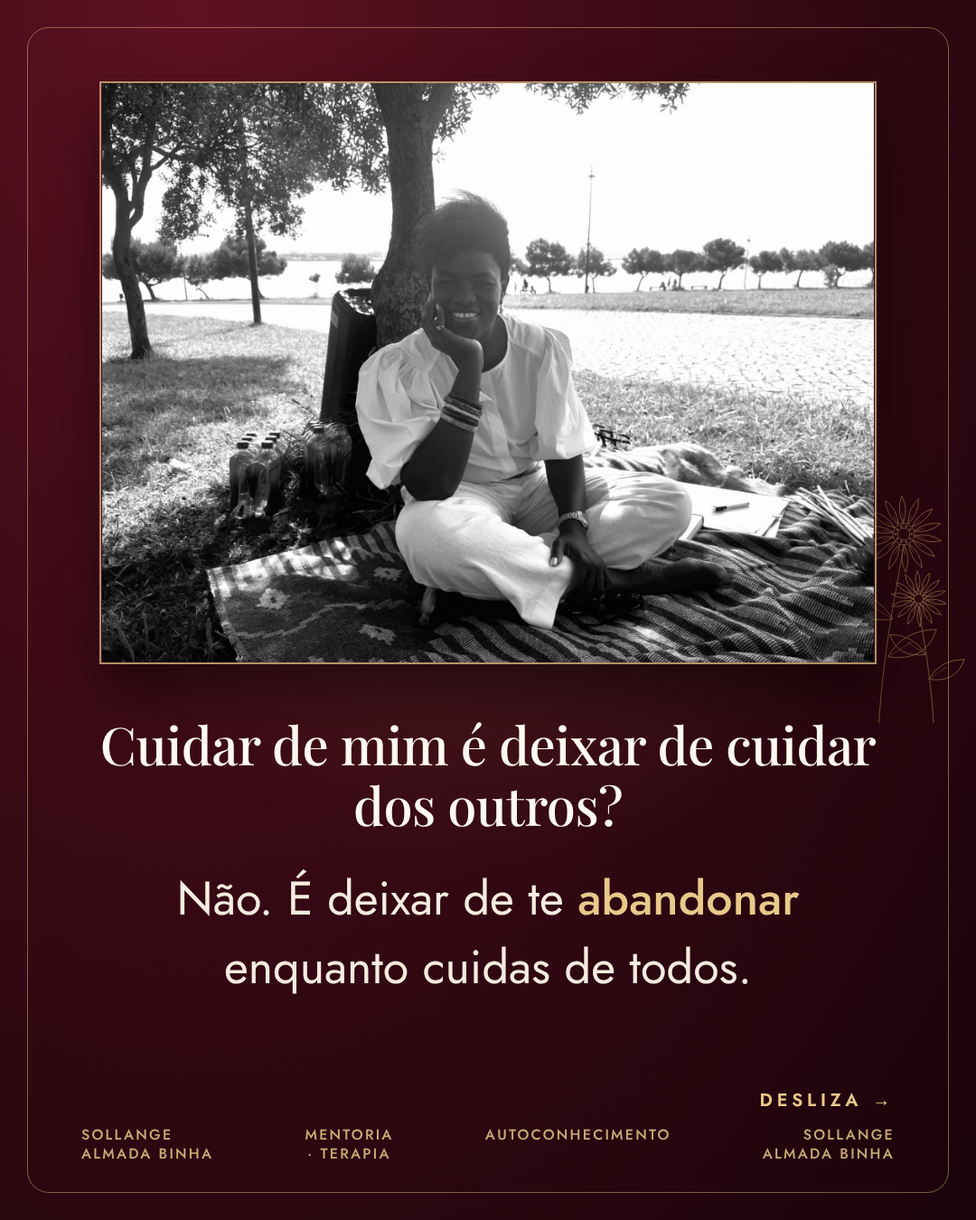
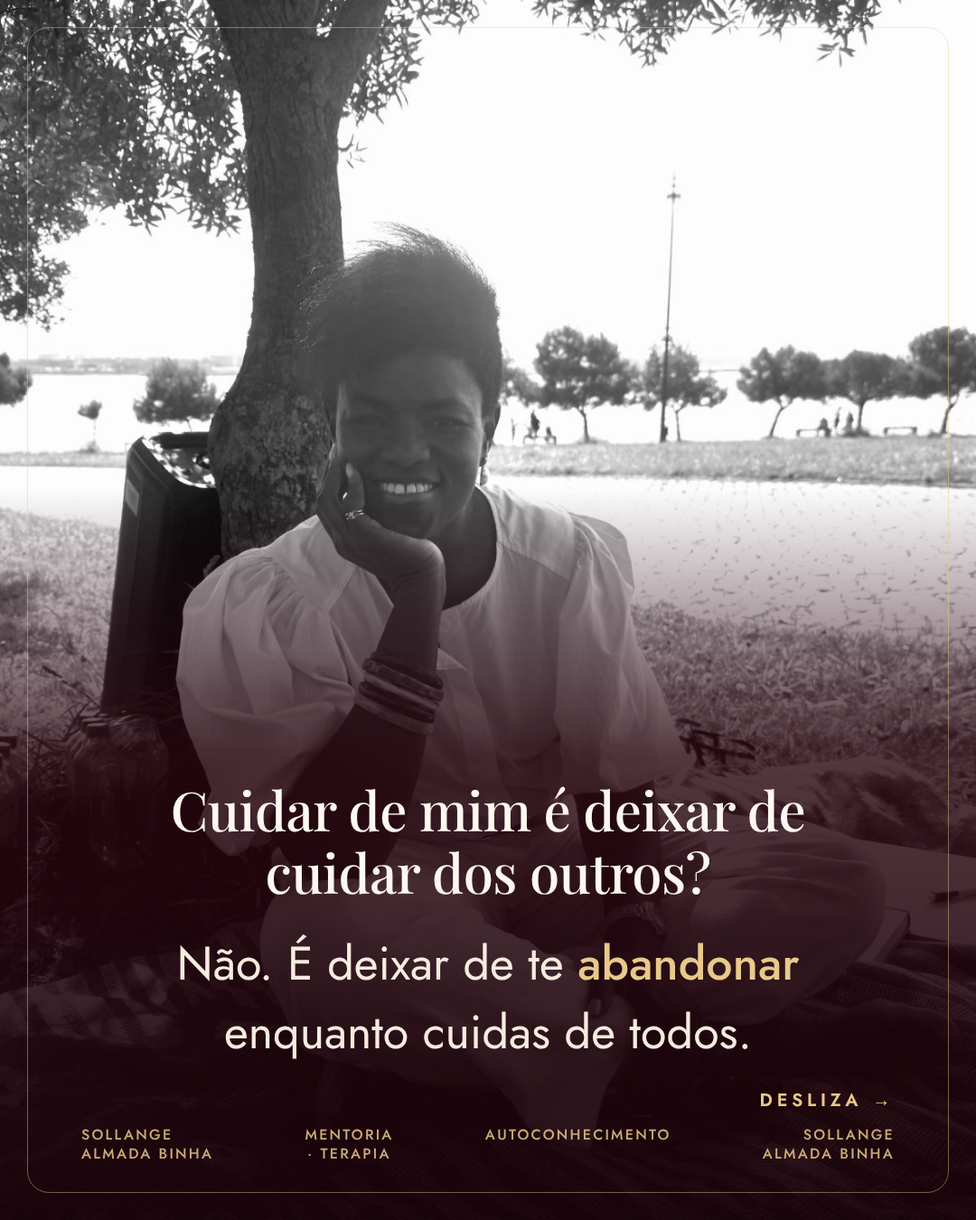
Egoismo carousel: full-bleed photos
Claude-Session: https://claude.ai/code/session_01LHQJ2mQGDsvNSWxv53LoAn

diff --git a/carrossel/carrossel-egoismo-vinho.html b/carrossel/carrossel-egoismo-vinho.html
@@ -7,6 +7,8 @@ body{background:#111;padding:40px;display:flex;flex-direction:column;gap:40px;al
 .s::after{content:"";position:absolute;inset:30px;border:1.5px solid rgba(233,201,138,.45);border-radius:24px;pointer-events:none;z-index:6}
 .flor{position:absolute;z-index:1;opacity:.5}
 .z{position:relative;z-index:2}
+.bg{position:absolute;inset:0;width:100%;height:100%;object-fit:cover;z-index:0}
+.veu{position:absolute;inset:0;z-index:1}
 .foto{position:absolute;z-index:2;object-fit:contain;border:2px solid rgba(233,201,138,.7);box-shadow:0 30px 60px rgba(0,0,0,.45)}
 h1,h2{font-family:"Playfair Display",Georgia,serif;font-weight:500;line-height:1.05;letter-spacing:-.01em;color:#FFF8F0}
 h1 em,h2 em{font-style:italic;color:#E9C98A}
@@ -20,13 +22,11 @@ h1 em,h2 em{font-style:italic;color:#E9C98A}
 .script{font:400 96px/1 "Pinyon Script",cursive;color:#E9C98A}
 </style></head><body>
 <section class="s" id="p1">
-<svg class="flor" style="left:-30px;top:250px;width:250px;height:375px" viewBox="0 0 400 600" fill="none" stroke="#D4AF6A" stroke-width="1.6" stroke-linejoin="round"><path d="M120 600 C132.0 480.0 162.0 390.0 180 318.9"/><path d="M141 495 Q204 504 222 450 Q168 450 141 495Z"/><path d="M141 495 L182 468" stroke-width="1"/><path d="M153 435 Q90 444 72 390 Q126 390 153 435Z"/><path d="M153 435 L112 408" stroke-width="1"/><path d="M197.4 303.1 Q218.0 316.9 242.0 310.9 Q221.5 297.1 197.4 303.1Z"/><path d="M197.4 303.1 L214.1 306.0" stroke-width="1"/><path d="M194.3 310.3 Q206.9 331.7 231.2 336.8 Q218.6 315.4 194.3 310.3Z"/><path d="M194.3 310.3 L208.1 320.2" stroke-width="1"/><path d="M188.4 315.5 Q190.4 340.2 210.1 355.3 Q208.1 330.6 188.4 315.5Z"/><path d="M188.4 315.5 L196.6 330.4" stroke-width="1"/><path d="M180.9 317.6 Q171.9 340.8 183.1 362.9 Q192.1 339.8 180.9 317.6Z"/><path d="M180.9 317.6 L181.7 334.6" stroke-width="1"/><path d="M173.1 316.3 Q155.0 333.2 155.5 358.1 Q173.6 341.1 173.1 316.3Z"/><path d="M173.1 316.3 L166.5 331.9" stroke-width="1"/><path d="M166.8 311.7 Q143.1 319.1 132.8 341.7 Q156.4 334.2 166.8 311.7Z"/><path d="M166.8 311.7 L154.0 322.9" stroke-width="1"/><path d="M163.0 304.8 Q138.5 301.2 119.4 317.1 Q143.9 320.6 163.0 304.8Z"/><path d="M163.0 304.8 L146.6 309.4" stroke-width="1"/><path d="M162.6 296.9 Q142.0 283.1 118.0 289.1 Q138.5 302.9 162.6 296.9Z"/><path d="M162.6 296.9 L145.9 294.0" stroke-width="1"/><path d="M165.7 289.7 Q153.1 268.3 128.8 263.2 Q141.4 284.6 165.7 289.7Z"/><path d="M165.7 289.7 L151.9 279.8" stroke-width="1"/><path d="M171.6 284.5 Q169.6 259.8 149.9 244.7 Q151.9 269.4 171.6 284.5Z"/><path d="M171.6 284.5 L163.4 269.6" stroke-width="1"/><path d="M179.1 282.4 Q188.1 259.2 176.9 237.1 Q167.9 260.2 179.1 282.4Z"/><path d="M179.1 282.4 L178.3 265.4" stroke-width="1"/><path d="M186.9 283.7 Q205.0 266.8 204.5 241.9 Q186.4 258.9 186.9 283.7Z"/><path d="M186.9 283.7 L193.5 268.1" stroke-width="1"/><path d="M193.2 288.3 Q216.9 280.9 227.2 258.3 Q203.6 265.8 193.2 288.3Z"/><path d="M193.2 288.3 L206.0 277.1" stroke-width="1"/><path d="M197.0 295.2 Q221.5 298.8 240.6 282.9 Q216.1 279.4 197.0 295.2Z"/><path d="M197.0 295.2 L213.4 290.6" stroke-width="1"/><circle cx="180" cy="300" r="17.6"/><circle cx="180" cy="300" r="10.1"/><circle cx="193.2" cy="300.0" r="1.6" fill="#D4AF6A"/><circle cx="190.7" cy="307.8" r="1.6" fill="#D4AF6A"/><circle cx="184.1" cy="312.6" r="1.6" fill="#D4AF6A"/><circle cx="175.9" cy="312.6" r="1.6" fill="#D4AF6A"/><circle cx="169.3" cy="307.8" r="1.6" fill="#D4AF6A"/><circle cx="166.8" cy="300.0" r="1.6" fill="#D4AF6A"/><circle cx="169.3" cy="292.2" r="1.6" fill="#D4AF6A"/><circle cx="175.9" cy="287.4" r="1.6" fill="#D4AF6A"/><circle cx="184.1" cy="287.4" r="1.6" fill="#D4AF6A"/><circle cx="190.7" cy="292.2" r="1.6" fill="#D4AF6A"/><path d="M250 600 C252.0 428.0 257.0 299.0 260 191.0"/><path d="M254 450 Q324 460 344 400 Q284 400 254 450Z"/><path d="M254 450 L298 420" stroke-width="1"/><path d="M256 364 Q186 374 166 314 Q226 314 256 364Z"/><path d="M256 364 L210 334" stroke-width="1"/><path d="M279.3 173.4 Q302.2 188.8 328.9 182.2 Q306.1 166.7 279.3 173.4Z"/><path d="M279.3 173.4 L297.9 176.7" stroke-width="1"/><path d="M275.9 181.4 Q289.8 205.2 316.8 210.9 Q302.9 187.1 275.9 181.4Z"/><path d="M275.9 181.4 L291.3 192.5" stroke-width="1"/><path d="M269.4 187.2 Q271.6 214.7 293.5 231.5 Q291.3 204.0 269.4 187.2Z"/><path d="M269.4 187.2 L278.4 203.8" stroke-width="1"/><path d="M261.0 189.6 Q251.0 215.3 263.5 239.9 Q273.4 214.2 261.0 189.6Z"/><path d="M261.0 189.6 L261.9 208.5" stroke-width="1"/><path d="M252.4 188.1 Q232.3 206.9 232.8 234.5 Q252.9 215.6 252.4 188.1Z"/><path d="M252.4 188.1 L245.0 205.5" stroke-width="1"/><path d="M245.3 183.0 Q219.0 191.2 207.5 216.3 Q233.8 208.0 245.3 183.0Z"/><path d="M245.3 183.0 L231.1 195.5" stroke-width="1"/><path d="M241.1 175.3 Q213.8 171.4 192.6 189.0 Q219.9 192.9 241.1 175.3Z"/><path d="M241.1 175.3 L222.9 180.4" stroke-width="1"/><path d="M240.7 166.6 Q217.8 151.2 191.1 157.8 Q213.9 173.3 240.7 166.6Z"/><path d="M240.7 166.6 L222.1 163.3" stroke-width="1"/><path d="M244.1 158.6 Q230.2 134.8 203.2 129.1 Q217.1 152.9 244.1 158.6Z"/><path d="M244.1 158.6 L228.7 147.5" stroke-width="1"/><path d="M250.6 152.8 Q248.4 125.3 226.5 108.5 Q228.7 136.0 250.6 152.8Z"/><path d="M250.6 152.8 L241.6 136.2" stroke-width="1"/><path d="M259.0 150.4 Q269.0 124.7 256.5 100.1 Q246.6 125.8 259.0 150.4Z"/><path d="M259.0 150.4 L258.1 131.5" stroke-width="1"/><path d="M267.6 151.9 Q287.7 133.1 287.2 105.5 Q267.1 124.4 267.6 151.9Z"/><path d="M267.6 151.9 L275.0 134.5" stroke-width="1"/><path d="M274.7 157.0 Q301.0 148.8 312.5 123.7 Q286.2 132.0 274.7 157.0Z"/><path d="M274.7 157.0 L288.9 144.5" stroke-width="1"/><path d="M278.9 164.7 Q306.2 168.6 327.4 151.0 Q300.1 147.1 278.9 164.7Z"/><path d="M278.9 164.7 L297.1 159.6" stroke-width="1"/><circle cx="260" cy="170" r="19.6"/><circle cx="260" cy="170" r="11.2"/><circle cx="274.7" cy="170.0" r="1.6" fill="#D4AF6A"/><circle cx="271.9" cy="178.6" r="1.6" fill="#D4AF6A"/><circle cx="264.5" cy="184.0" r="1.6" fill="#D4AF6A"/><circle cx="255.5" cy="184.0" r="1.6" fill="#D4AF6A"/><circle cx="248.1" cy="178.6" r="1.6" fill="#D4AF6A"/><circle cx="245.3" cy="170.0" r="1.6" fill="#D4AF6A"/><circle cx="248.1" cy="161.4" r="1.6" fill="#D4AF6A"/><circle cx="255.5" cy="156.0" r="1.6" fill="#D4AF6A"/><circle cx="264.5" cy="156.0" r="1.6" fill="#D4AF6A"/><circle cx="271.9" cy="161.4" r="1.6" fill="#D4AF6A"/><path d="M330 600 C320.0 512.0 295.0 446.0 280 394.7"/><path d="M312 523 Q362 530 376 488 Q334 488 312 523Z"/><path d="M312 523 L344 502" stroke-width="1"/><path d="M302 479 Q254 486 240 444 Q282 444 302 479Z"/><path d="M302 479 L271 458" stroke-width="1"/><path d="M293.5 382.4 Q309.5 393.2 328.3 388.5 Q312.2 377.7 293.5 382.4Z"/><path d="M293.5 382.4 L306.5 384.7" stroke-width="1"/><path d="M291.1 388.0 Q300.9 404.7 319.8 408.6 Q310.0 391.9 291.1 388.0Z"/><path d="M291.1 388.0 L301.9 395.7" stroke-width="1"/><path d="M286.6 392.0 Q288.1 411.3 303.4 423.0 Q301.9 403.8 286.6 392.0Z"/><path d="M286.6 392.0 L292.9 403.7" stroke-width="1"/><path d="M280.7 393.7 Q273.7 411.7 282.4 428.9 Q289.4 410.9 280.7 393.7Z"/><path d="M280.7 393.7 L281.3 406.9" stroke-width="1"/><path d="M274.7 392.6 Q260.6 405.9 261.0 425.2 Q275.0 411.9 274.7 392.6Z"/><path d="M274.7 392.6 L269.5 404.8" stroke-width="1"/><path d="M269.7 389.1 Q251.3 394.9 243.3 412.4 Q261.7 406.6 269.7 389.1Z"/><path d="M269.7 389.1 L259.8 397.8" stroke-width="1"/><path d="M266.8 383.7 Q247.7 380.9 232.8 393.3 Q251.9 396.0 266.8 383.7Z"/><path d="M266.8 383.7 L254.1 387.3" stroke-width="1"/><path d="M266.5 377.6 Q250.5 366.8 231.7 371.5 Q247.8 382.3 266.5 377.6Z"/><path d="M266.5 377.6 L253.5 375.3" stroke-width="1"/><path d="M268.9 372.0 Q259.1 355.3 240.2 351.4 Q250.0 368.1 268.9 372.0Z"/><path d="M268.9 372.0 L258.1 364.3" stroke-width="1"/><path d="M273.4 368.0 Q271.9 348.7 256.6 337.0 Q258.1 356.2 273.4 368.0Z"/><path d="M273.4 368.0 L267.1 356.3" stroke-width="1"/><path d="M279.3 366.3 Q286.3 348.3 277.6 331.1 Q270.6 349.1 279.3 366.3Z"/><path d="M279.3 366.3 L278.7 353.1" stroke-width="1"/><path d="M285.3 367.4 Q299.4 354.1 299.0 334.8 Q285.0 348.1 285.3 367.4Z"/><path d="M285.3 367.4 L290.5 355.2" stroke-width="1"/><path d="M290.3 370.9 Q308.7 365.1 316.7 347.6 Q298.3 353.4 290.3 370.9Z"/><path d="M290.3 370.9 L300.2 362.2" stroke-width="1"/><path d="M293.2 376.3 Q312.3 379.1 327.2 366.7 Q308.1 364.0 293.2 376.3Z"/><path d="M293.2 376.3 L305.9 372.7" stroke-width="1"/><circle cx="280" cy="380" r="13.7"/><circle cx="280" cy="380" r="7.8"/><circle cx="290.3" cy="380.0" r="1.6" fill="#D4AF6A"/><circle cx="288.3" cy="386.0" r="1.6" fill="#D4AF6A"/><circle cx="283.2" cy="389.8" r="1.6" fill="#D4AF6A"/><circle cx="276.8" cy="389.8" r="1.6" fill="#D4AF6A"/><circle cx="271.7" cy="386.0" r="1.6" fill="#D4AF6A"/><circle cx="269.7" cy="380.0" r="1.6" fill="#D4AF6A"/><circle cx="271.7" cy="374.0" r="1.6" fill="#D4AF6A"/><circle cx="276.8" cy="370.2" r="1.6" fill="#D4AF6A"/><circle cx="283.2" cy="370.2" r="1.6" fill="#D4AF6A"/><circle cx="288.3" cy="374.0" r="1.6" fill="#D4AF6A"/></svg>
-<img class="foto" src="egoismo/inteira-flores.jpg" style="right:90px;top:90px;width:562px;height:780px">
-<div class="z" style="position:absolute;left:90px;top:150px;width:420px">
-<p class="script" style="font-size:76px">um convite</p>
-</div>
-<div class="z" style="position:absolute;left:90px;right:90px;top:930px">
-<h1 style="font-size:118px">É egoísmo <em>pensar em mim?</em></h1>
+<img class="bg" src="egoismo/inteira-flores.jpg" style="object-position:50% 20%">
+<div class="veu" style="background:linear-gradient(180deg,rgba(26,3,10,0) 55%,rgba(42,6,16,.78) 76%,rgba(26,3,10,.96) 100%)"></div>
+<div class="z" style="position:absolute;left:90px;right:90px;bottom:150px">
+<p class="script" style="font-size:72px">um convite</p>
+<h1 style="font-size:112px;margin-top:10px;text-shadow:0 4px 24px rgba(0,0,0,.4)">É egoísmo <em>pensar em mim?</em></h1>
 </div>
 <div class="rod"><span>Sollange<br>Almada Binha</span><span>Mentoria<br>· Terapia</span><span>Autoconhecimento</span><span>Sollange<br>Almada Binha</span></div></section><section class="s" id="p2">
 <svg class="flor" style="right:-40px;bottom:100px;width:260px;height:390px" viewBox="0 0 400 600" fill="none" stroke="#D4AF6A" stroke-width="1.6" stroke-linejoin="round"><path d="M200 600 C192.0 432.0 172.0 306.0 160 205.2"/><path d="M186 453 Q270 465 294 393 Q222 393 186 453Z"/><path d="M186 453 L240 419" stroke-width="1"/><path d="M178 369 Q94 381 70 309 Q142 309 178 369Z"/><path d="M178 369 L124 335" stroke-width="1"/><path d="M183.2 184.1 Q210.6 202.6 242.7 194.6 Q215.3 176.1 183.2 184.1Z"/><path d="M183.2 184.1 L205.5 188.0" stroke-width="1"/><path d="M179.1 193.7 Q195.8 222.3 228.2 229.0 Q211.5 200.5 179.1 193.7Z"/><path d="M179.1 193.7 L197.5 207.0" stroke-width="1"/><path d="M171.2 200.7 Q173.9 233.6 200.2 253.8 Q197.5 220.8 171.2 200.7Z"/><path d="M171.2 200.7 L182.1 220.6" stroke-width="1"/><path d="M161.2 203.5 Q149.3 234.4 164.2 263.9 Q176.1 233.0 161.2 203.5Z"/><path d="M161.2 203.5 L162.3 226.1" stroke-width="1"/><path d="M150.9 201.7 Q126.7 224.3 127.4 257.4 Q151.5 234.8 150.9 201.7Z"/><path d="M150.9 201.7 L142.1 222.6" stroke-width="1"/><path d="M142.4 195.6 Q110.8 205.5 97.0 235.6 Q128.6 225.6 142.4 195.6Z"/><path d="M142.4 195.6 L125.4 210.6" stroke-width="1"/><path d="M137.4 186.4 Q104.6 181.6 79.1 202.8 Q111.9 207.5 137.4 186.4Z"/><path d="M137.4 186.4 L115.5 192.5" stroke-width="1"/><path d="M136.8 175.9 Q109.4 157.4 77.3 165.4 Q104.7 183.9 136.8 175.9Z"/><path d="M136.8 175.9 L114.5 172.0" stroke-width="1"/><path d="M140.9 166.3 Q124.2 137.7 91.8 131.0 Q108.5 159.5 140.9 166.3Z"/><path d="M140.9 166.3 L122.5 153.0" stroke-width="1"/><path d="M148.8 159.3 Q146.1 126.4 119.8 106.2 Q122.5 139.2 148.8 159.3Z"/><path d="M148.8 159.3 L137.9 139.4" stroke-width="1"/><path d="M158.8 156.5 Q170.7 125.6 155.8 96.1 Q143.9 127.0 158.8 156.5Z"/><path d="M158.8 156.5 L157.7 133.9" stroke-width="1"/><path d="M169.1 158.3 Q193.3 135.7 192.6 102.6 Q168.5 125.2 169.1 158.3Z"/><path d="M169.1 158.3 L177.9 137.4" stroke-width="1"/><path d="M177.6 164.4 Q209.2 154.5 223.0 124.4 Q191.4 134.4 177.6 164.4Z"/><path d="M177.6 164.4 L194.6 149.4" stroke-width="1"/><path d="M182.6 173.6 Q215.4 178.4 240.9 157.2 Q208.1 152.5 182.6 173.6Z"/><path d="M182.6 173.6 L204.5 167.5" stroke-width="1"/><circle cx="160" cy="180" r="23.5"/><circle cx="160" cy="180" r="13.4"/><circle cx="177.6" cy="180.0" r="1.6" fill="#D4AF6A"/><circle cx="174.3" cy="190.4" r="1.6" fill="#D4AF6A"/><circle cx="165.5" cy="196.8" r="1.6" fill="#D4AF6A"/><circle cx="154.5" cy="196.8" r="1.6" fill="#D4AF6A"/><circle cx="145.7" cy="190.4" r="1.6" fill="#D4AF6A"/><circle cx="142.4" cy="180.0" r="1.6" fill="#D4AF6A"/><circle cx="145.7" cy="169.6" r="1.6" fill="#D4AF6A"/><circle cx="154.5" cy="163.2" r="1.6" fill="#D4AF6A"/><circle cx="165.5" cy="163.2" r="1.6" fill="#D4AF6A"/><circle cx="174.3" cy="169.6" r="1.6" fill="#D4AF6A"/></svg>
@@ -36,11 +36,11 @@ h1 em,h2 em{font-style:italic;color:#E9C98A}
 <p class="r" style="margin-top:28px">Cuidar dos outros foi o lugar onde te <b>sentiste amada.</b></p>
 </div>
 <p class="seta">Desliza →</p><div class="rod"><span>Sollange<br>Almada Binha</span><span>Mentoria<br>· Terapia</span><span>Autoconhecimento</span><span>Sollange<br>Almada Binha</span></div></section><section class="s" id="p3">
-<img class="foto" src="egoismo/inteira-manta.jpg" style="left:110px;top:90px;width:860px;height:645px">
-<svg class="flor" style="right:-30px;top:470px;width:220px;height:330px" viewBox="0 0 400 600" fill="none" stroke="#D4AF6A" stroke-width="1.6" stroke-linejoin="round"><path d="M150 600 C160.0 448.0 185.0 334.0 200 243.1"/><path d="M168 467 Q244 478 266 412 Q200 412 168 467Z"/><path d="M168 467 L217 436" stroke-width="1"/><path d="M178 391 Q100 402 78 336 Q144 336 178 391Z"/><path d="M178 391 L128 360" stroke-width="1"/><path d="M221.2 223.7 Q246.4 240.7 275.8 233.4 Q250.7 216.4 221.2 223.7Z"/><path d="M221.2 223.7 L241.7 227.4" stroke-width="1"/><path d="M217.5 232.6 Q232.8 258.8 262.5 264.9 Q247.2 238.8 217.5 232.6Z"/><path d="M217.5 232.6 L234.4 244.7" stroke-width="1"/><path d="M210.3 238.9 Q212.7 269.2 236.8 287.6 Q234.4 257.4 210.3 238.9Z"/><path d="M210.3 238.9 L220.3 257.2" stroke-width="1"/><path d="M201.1 241.5 Q190.2 269.8 203.8 296.9 Q214.8 268.6 201.1 241.5Z"/><path d="M201.1 241.5 L202.1 262.3" stroke-width="1"/><path d="M191.6 239.9 Q169.5 260.6 170.1 291.0 Q192.2 270.2 191.6 239.9Z"/><path d="M191.6 239.9 L183.5 259.0" stroke-width="1"/><path d="M183.8 234.3 Q154.9 243.4 142.3 270.9 Q171.2 261.8 183.8 234.3Z"/><path d="M183.8 234.3 L168.2 248.0" stroke-width="1"/><path d="M179.2 225.8 Q149.2 221.5 125.9 240.9 Q155.9 245.2 179.2 225.8Z"/><path d="M179.2 225.8 L159.2 231.5" stroke-width="1"/><path d="M178.8 216.3 Q153.6 199.3 124.2 206.6 Q149.3 223.6 178.8 216.3Z"/><path d="M178.8 216.3 L158.3 212.6" stroke-width="1"/><path d="M182.5 207.4 Q167.2 181.2 137.5 175.1 Q152.8 201.2 182.5 207.4Z"/><path d="M182.5 207.4 L165.6 195.3" stroke-width="1"/><path d="M189.7 201.1 Q187.3 170.8 163.2 152.4 Q165.6 182.6 189.7 201.1Z"/><path d="M189.7 201.1 L179.7 182.8" stroke-width="1"/><path d="M198.9 198.5 Q209.8 170.2 196.2 143.1 Q185.2 171.4 198.9 198.5Z"/><path d="M198.9 198.5 L197.9 177.7" stroke-width="1"/><path d="M208.4 200.1 Q230.5 179.4 229.9 149.0 Q207.8 169.8 208.4 200.1Z"/><path d="M208.4 200.1 L216.5 181.0" stroke-width="1"/><path d="M216.2 205.7 Q245.1 196.6 257.7 169.1 Q228.8 178.2 216.2 205.7Z"/><path d="M216.2 205.7 L231.8 192.0" stroke-width="1"/><path d="M220.8 214.2 Q250.8 218.5 274.1 199.1 Q244.1 194.8 220.8 214.2Z"/><path d="M220.8 214.2 L240.8 208.5" stroke-width="1"/><circle cx="200" cy="220" r="21.6"/><circle cx="200" cy="220" r="12.3"/><circle cx="216.2" cy="220.0" r="1.6" fill="#D4AF6A"/><circle cx="213.1" cy="229.5" r="1.6" fill="#D4AF6A"/><circle cx="205.0" cy="235.4" r="1.6" fill="#D4AF6A"/><circle cx="195.0" cy="235.4" r="1.6" fill="#D4AF6A"/><circle cx="186.9" cy="229.5" r="1.6" fill="#D4AF6A"/><circle cx="183.8" cy="220.0" r="1.6" fill="#D4AF6A"/><circle cx="186.9" cy="210.5" r="1.6" fill="#D4AF6A"/><circle cx="195.0" cy="204.6" r="1.6" fill="#D4AF6A"/><circle cx="205.0" cy="204.6" r="1.6" fill="#D4AF6A"/><circle cx="213.1" cy="210.5" r="1.6" fill="#D4AF6A"/><path d="M260 600 C254.0 500.0 239.0 425.0 230 366.8"/><path d="M250 512 Q306 520 322 472 Q274 472 250 512Z"/><path d="M250 512 L286 488" stroke-width="1"/><path d="M244 462 Q188 470 172 422 Q220 422 244 462Z"/><path d="M244 462 L208 438" stroke-width="1"/><path d="M245.4 352.7 Q263.7 365.0 285.1 359.7 Q266.9 347.4 245.4 352.7Z"/><path d="M245.4 352.7 L260.3 355.3" stroke-width="1"/><path d="M242.7 359.2 Q253.9 378.2 275.5 382.7 Q264.3 363.6 242.7 359.2Z"/><path d="M242.7 359.2 L255.0 368.0" stroke-width="1"/><path d="M237.5 363.8 Q239.3 385.8 256.8 399.2 Q255.0 377.2 237.5 363.8Z"/><path d="M237.5 363.8 L244.7 377.0" stroke-width="1"/><path d="M230.8 365.7 Q222.8 386.2 232.8 405.9 Q240.7 385.3 230.8 365.7Z"/><path d="M230.8 365.7 L231.5 380.8" stroke-width="1"/><path d="M223.9 364.4 Q207.8 379.5 208.2 401.6 Q224.3 386.5 223.9 364.4Z"/><path d="M223.9 364.4 L218.0 378.4" stroke-width="1"/><path d="M218.2 360.4 Q197.2 367.0 188.0 387.1 Q209.1 380.4 218.2 360.4Z"/><path d="M218.2 360.4 L206.9 370.4" stroke-width="1"/><path d="M214.9 354.2 Q193.1 351.1 176.1 365.2 Q197.9 368.3 214.9 354.2Z"/><path d="M214.9 354.2 L200.4 358.3" stroke-width="1"/><path d="M214.6 347.3 Q196.3 335.0 174.9 340.3 Q193.1 352.6 214.6 347.3Z"/><path d="M214.6 347.3 L199.7 344.7" stroke-width="1"/><path d="M217.3 340.8 Q206.1 321.8 184.5 317.3 Q195.7 336.4 217.3 340.8Z"/><path d="M217.3 340.8 L205.0 332.0" stroke-width="1"/><path d="M222.5 336.2 Q220.7 314.2 203.2 300.8 Q205.0 322.8 222.5 336.2Z"/><path d="M222.5 336.2 L215.3 323.0" stroke-width="1"/><path d="M229.2 334.3 Q237.2 313.8 227.2 294.1 Q219.3 314.7 229.2 334.3Z"/><path d="M229.2 334.3 L228.5 319.2" stroke-width="1"/><path d="M236.1 335.6 Q252.2 320.5 251.8 298.4 Q235.7 313.5 236.1 335.6Z"/><path d="M236.1 335.6 L242.0 321.6" stroke-width="1"/><path d="M241.8 339.6 Q262.8 333.0 272.0 312.9 Q250.9 319.6 241.8 339.6Z"/><path d="M241.8 339.6 L253.1 329.6" stroke-width="1"/><path d="M245.1 345.8 Q266.9 348.9 283.9 334.8 Q262.1 331.7 245.1 345.8Z"/><path d="M245.1 345.8 L259.6 341.7" stroke-width="1"/><circle cx="230" cy="350" r="15.7"/><circle cx="230" cy="350" r="9.0"/><circle cx="241.8" cy="350.0" r="1.6" fill="#D4AF6A"/><circle cx="239.5" cy="356.9" r="1.6" fill="#D4AF6A"/><circle cx="233.6" cy="361.2" r="1.6" fill="#D4AF6A"/><circle cx="226.4" cy="361.2" r="1.6" fill="#D4AF6A"/><circle cx="220.5" cy="356.9" r="1.6" fill="#D4AF6A"/><circle cx="218.2" cy="350.0" r="1.6" fill="#D4AF6A"/><circle cx="220.5" cy="343.1" r="1.6" fill="#D4AF6A"/><circle cx="226.4" cy="338.8" r="1.6" fill="#D4AF6A"/><circle cx="233.6" cy="338.8" r="1.6" fill="#D4AF6A"/><circle cx="239.5" cy="343.1" r="1.6" fill="#D4AF6A"/></svg>
-<div class="z" style="position:absolute;left:110px;right:110px;top:790px;text-align:center">
-<p class="q" style="font-size:58px">Cuidar de mim é deixar de cuidar dos outros?</p>
-<p class="r" style="margin-top:34px">Não. É deixar de te <b>abandonar</b> enquanto cuidas de todos.</p>
+<img class="bg" src="egoismo/inteira-manta.jpg" style="object-position:55% 50%">
+<div class="veu" style="background:linear-gradient(180deg,rgba(26,3,10,0) 40%,rgba(42,6,16,.8) 62%,rgba(26,3,10,.96) 100%)"></div>
+<div class="z" style="position:absolute;left:100px;right:100px;bottom:170px;text-align:center">
+<p class="q" style="font-size:60px">Cuidar de mim é deixar de cuidar dos outros?</p>
+<p class="r" style="margin-top:30px">Não. É deixar de te <b>abandonar</b> enquanto cuidas de todos.</p>
 </div>
 <p class="seta">Desliza →</p><div class="rod"><span>Sollange<br>Almada Binha</span><span>Mentoria<br>· Terapia</span><span>Autoconhecimento</span><span>Sollange<br>Almada Binha</span></div></section><section class="s" id="p4">
 <svg class="flor" style="left:-40px;bottom:100px;width:260px;height:390px" viewBox="0 0 400 600" fill="none" stroke="#D4AF6A" stroke-width="1.6" stroke-linejoin="round"><path d="M150 600 C160.0 448.0 185.0 334.0 200 243.1"/><path d="M168 467 Q244 478 266 412 Q200 412 168 467Z"/><path d="M168 467 L217 436" stroke-width="1"/><path d="M178 391 Q100 402 78 336 Q144 336 178 391Z"/><path d="M178 391 L128 360" stroke-width="1"/><path d="M221.2 223.7 Q246.4 240.7 275.8 233.4 Q250.7 216.4 221.2 223.7Z"/><path d="M221.2 223.7 L241.7 227.4" stroke-width="1"/><path d="M217.5 232.6 Q232.8 258.8 262.5 264.9 Q247.2 238.8 217.5 232.6Z"/><path d="M217.5 232.6 L234.4 244.7" stroke-width="1"/><path d="M210.3 238.9 Q212.7 269.2 236.8 287.6 Q234.4 257.4 210.3 238.9Z"/><path d="M210.3 238.9 L220.3 257.2" stroke-width="1"/><path d="M201.1 241.5 Q190.2 269.8 203.8 296.9 Q214.8 268.6 201.1 241.5Z"/><path d="M201.1 241.5 L202.1 262.3" stroke-width="1"/><path d="M191.6 239.9 Q169.5 260.6 170.1 291.0 Q192.2 270.2 191.6 239.9Z"/><path d="M191.6 239.9 L183.5 259.0" stroke-width="1"/><path d="M183.8 234.3 Q154.9 243.4 142.3 270.9 Q171.2 261.8 183.8 234.3Z"/><path d="M183.8 234.3 L168.2 248.0" stroke-width="1"/><path d="M179.2 225.8 Q149.2 221.5 125.9 240.9 Q155.9 245.2 179.2 225.8Z"/><path d="M179.2 225.8 L159.2 231.5" stroke-width="1"/><path d="M178.8 216.3 Q153.6 199.3 124.2 206.6 Q149.3 223.6 178.8 216.3Z"/><path d="M178.8 216.3 L158.3 212.6" stroke-width="1"/><path d="M182.5 207.4 Q167.2 181.2 137.5 175.1 Q152.8 201.2 182.5 207.4Z"/><path d="M182.5 207.4 L165.6 195.3" stroke-width="1"/><path d="M189.7 201.1 Q187.3 170.8 163.2 152.4 Q165.6 182.6 189.7 201.1Z"/><path d="M189.7 201.1 L179.7 182.8" stroke-width="1"/><path d="M198.9 198.5 Q209.8 170.2 196.2 143.1 Q185.2 171.4 198.9 198.5Z"/><path d="M198.9 198.5 L197.9 177.7" stroke-width="1"/><path d="M208.4 200.1 Q230.5 179.4 229.9 149.0 Q207.8 169.8 208.4 200.1Z"/><path d="M208.4 200.1 L216.5 181.0" stroke-width="1"/><path d="M216.2 205.7 Q245.1 196.6 257.7 169.1 Q228.8 178.2 216.2 205.7Z"/><path d="M216.2 205.7 L231.8 192.0" stroke-width="1"/><path d="M220.8 214.2 Q250.8 218.5 274.1 199.1 Q244.1 194.8 220.8 214.2Z"/><path d="M220.8 214.2 L240.8 208.5" stroke-width="1"/><circle cx="200" cy="220" r="21.6"/><circle cx="200" cy="220" r="12.3"/><circle cx="216.2" cy="220.0" r="1.6" fill="#D4AF6A"/><circle cx="213.1" cy="229.5" r="1.6" fill="#D4AF6A"/><circle cx="205.0" cy="235.4" r="1.6" fill="#D4AF6A"/><circle cx="195.0" cy="235.4" r="1.6" fill="#D4AF6A"/><circle cx="186.9" cy="229.5" r="1.6" fill="#D4AF6A"/><circle cx="183.8" cy="220.0" r="1.6" fill="#D4AF6A"/><circle cx="186.9" cy="210.5" r="1.6" fill="#D4AF6A"/><circle cx="195.0" cy="204.6" r="1.6" fill="#D4AF6A"/><circle cx="205.0" cy="204.6" r="1.6" fill="#D4AF6A"/><circle cx="213.1" cy="210.5" r="1.6" fill="#D4AF6A"/><path d="M260 600 C254.0 500.0 239.0 425.0 230 366.8"/><path d="M250 512 Q306 520 322 472 Q274 472 250 512Z"/><path d="M250 512 L286 488" stroke-width="1"/><path d="M244 462 Q188 470 172 422 Q220 422 244 462Z"/><path d="M244 462 L208 438" stroke-width="1"/><path d="M245.4 352.7 Q263.7 365.0 285.1 359.7 Q266.9 347.4 245.4 352.7Z"/><path d="M245.4 352.7 L260.3 355.3" stroke-width="1"/><path d="M242.7 359.2 Q253.9 378.2 275.5 382.7 Q264.3 363.6 242.7 359.2Z"/><path d="M242.7 359.2 L255.0 368.0" stroke-width="1"/><path d="M237.5 363.8 Q239.3 385.8 256.8 399.2 Q255.0 377.2 237.5 363.8Z"/><path d="M237.5 363.8 L244.7 377.0" stroke-width="1"/><path d="M230.8 365.7 Q222.8 386.2 232.8 405.9 Q240.7 385.3 230.8 365.7Z"/><path d="M230.8 365.7 L231.5 380.8" stroke-width="1"/><path d="M223.9 364.4 Q207.8 379.5 208.2 401.6 Q224.3 386.5 223.9 364.4Z"/><path d="M223.9 364.4 L218.0 378.4" stroke-width="1"/><path d="M218.2 360.4 Q197.2 367.0 188.0 387.1 Q209.1 380.4 218.2 360.4Z"/><path d="M218.2 360.4 L206.9 370.4" stroke-width="1"/><path d="M214.9 354.2 Q193.1 351.1 176.1 365.2 Q197.9 368.3 214.9 354.2Z"/><path d="M214.9 354.2 L200.4 358.3" stroke-width="1"/><path d="M214.6 347.3 Q196.3 335.0 174.9 340.3 Q193.1 352.6 214.6 347.3Z"/><path d="M214.6 347.3 L199.7 344.7" stroke-width="1"/><path d="M217.3 340.8 Q206.1 321.8 184.5 317.3 Q195.7 336.4 217.3 340.8Z"/><path d="M217.3 340.8 L205.0 332.0" stroke-width="1"/><path d="M222.5 336.2 Q220.7 314.2 203.2 300.8 Q205.0 322.8 222.5 336.2Z"/><path d="M222.5 336.2 L215.3 323.0" stroke-width="1"/><path d="M229.2 334.3 Q237.2 313.8 227.2 294.1 Q219.3 314.7 229.2 334.3Z"/><path d="M229.2 334.3 L228.5 319.2" stroke-width="1"/><path d="M236.1 335.6 Q252.2 320.5 251.8 298.4 Q235.7 313.5 236.1 335.6Z"/><path d="M236.1 335.6 L242.0 321.6" stroke-width="1"/><path d="M241.8 339.6 Q262.8 333.0 272.0 312.9 Q250.9 319.6 241.8 339.6Z"/><path d="M241.8 339.6 L253.1 329.6" stroke-width="1"/><path d="M245.1 345.8 Q266.9 348.9 283.9 334.8 Q262.1 331.7 245.1 345.8Z"/><path d="M245.1 345.8 L259.6 341.7" stroke-width="1"/><circle cx="230" cy="350" r="15.7"/><circle cx="230" cy="350" r="9.0"/><circle cx="241.8" cy="350.0" r="1.6" fill="#D4AF6A"/><circle cx="239.5" cy="356.9" r="1.6" fill="#D4AF6A"/><circle cx="233.6" cy="361.2" r="1.6" fill="#D4AF6A"/><circle cx="226.4" cy="361.2" r="1.6" fill="#D4AF6A"/><circle cx="220.5" cy="356.9" r="1.6" fill="#D4AF6A"/><circle cx="218.2" cy="350.0" r="1.6" fill="#D4AF6A"/><circle cx="220.5" cy="343.1" r="1.6" fill="#D4AF6A"/><circle cx="226.4" cy="338.8" r="1.6" fill="#D4AF6A"/><circle cx="233.6" cy="338.8" r="1.6" fill="#D4AF6A"/><circle cx="239.5" cy="343.1" r="1.6" fill="#D4AF6A"/></svg>
@@ -50,10 +50,11 @@ h1 em,h2 em{font-style:italic;color:#E9C98A}
 <p class="r" style="margin-top:28px">E quando <b>já não sabes o que te faz feliz.</b></p>
 </div>
 <p class="seta">Desliza →</p><div class="rod"><span>Sollange<br>Almada Binha</span><span>Mentoria<br>· Terapia</span><span>Autoconhecimento</span><span>Sollange<br>Almada Binha</span></div></section><section class="s" id="p5">
-<img class="foto" src="egoismo/inteira-flores-manta.jpg" style="left:110px;top:90px;width:860px;height:645px">
-<div class="z" style="position:absolute;left:110px;right:110px;top:790px;text-align:center">
+<img class="bg" src="egoismo/inteira-flores-manta.jpg" style="object-position:45% 50%">
+<div class="veu" style="background:linear-gradient(180deg,rgba(26,3,10,.96) 0%,rgba(42,6,16,.8) 30%,rgba(26,3,10,0) 55%,rgba(26,3,10,0) 82%,rgba(26,3,10,.85) 100%)"></div>
+<div class="z" style="position:absolute;left:100px;right:100px;top:120px;text-align:center">
 <p class="q">Por onde começo?</p>
-<p class="r" style="margin-top:30px;font-size:46px">Por pequenos gestos: uma pausa por dia, um não sem justificação e a pergunta <b>“do que é que eu preciso hoje?”</b></p>
+<p class="r" style="margin-top:26px;font-size:46px">Por pequenos gestos: uma pausa por dia, um não sem justificação e a pergunta <b>“do que é que eu preciso hoje?”</b></p>
 </div>
 <p class="seta">Desliza →</p><div class="rod"><span>Sollange<br>Almada Binha</span><span>Mentoria<br>· Terapia</span><span>Autoconhecimento</span><span>Sollange<br>Almada Binha</span></div></section><section class="s" id="p6">
 <svg class="flor" style="right:-40px;bottom:100px;width:260px;height:390px" viewBox="0 0 400 600" fill="none" stroke="#D4AF6A" stroke-width="1.6" stroke-linejoin="round"><path d="M200 600 C192.0 432.0 172.0 306.0 160 205.2"/><path d="M186 453 Q270 465 294 393 Q222 393 186 453Z"/><path d="M186 453 L240 419" stroke-width="1"/><path d="M178 369 Q94 381 70 309 Q142 309 178 369Z"/><path d="M178 369 L124 335" stroke-width="1"/><path d="M183.2 184.1 Q210.6 202.6 242.7 194.6 Q215.3 176.1 183.2 184.1Z"/><path d="M183.2 184.1 L205.5 188.0" stroke-width="1"/><path d="M179.1 193.7 Q195.8 222.3 228.2 229.0 Q211.5 200.5 179.1 193.7Z"/><path d="M179.1 193.7 L197.5 207.0" stroke-width="1"/><path d="M171.2 200.7 Q173.9 233.6 200.2 253.8 Q197.5 220.8 171.2 200.7Z"/><path d="M171.2 200.7 L182.1 220.6" stroke-width="1"/><path d="M161.2 203.5 Q149.3 234.4 164.2 263.9 Q176.1 233.0 161.2 203.5Z"/><path d="M161.2 203.5 L162.3 226.1" stroke-width="1"/><path d="M150.9 201.7 Q126.7 224.3 127.4 257.4 Q151.5 234.8 150.9 201.7Z"/><path d="M150.9 201.7 L142.1 222.6" stroke-width="1"/><path d="M142.4 195.6 Q110.8 205.5 97.0 235.6 Q128.6 225.6 142.4 195.6Z"/><path d="M142.4 195.6 L125.4 210.6" stroke-width="1"/><path d="M137.4 186.4 Q104.6 181.6 79.1 202.8 Q111.9 207.5 137.4 186.4Z"/><path d="M137.4 186.4 L115.5 192.5" stroke-width="1"/><path d="M136.8 175.9 Q109.4 157.4 77.3 165.4 Q104.7 183.9 136.8 175.9Z"/><path d="M136.8 175.9 L114.5 172.0" stroke-width="1"/><path d="M140.9 166.3 Q124.2 137.7 91.8 131.0 Q108.5 159.5 140.9 166.3Z"/><path d="M140.9 166.3 L122.5 153.0" stroke-width="1"/><path d="M148.8 159.3 Q146.1 126.4 119.8 106.2 Q122.5 139.2 148.8 159.3Z"/><path d="M148.8 159.3 L137.9 139.4" stroke-width="1"/><path d="M158.8 156.5 Q170.7 125.6 155.8 96.1 Q143.9 127.0 158.8 156.5Z"/><path d="M158.8 156.5 L157.7 133.9" stroke-width="1"/><path d="M169.1 158.3 Q193.3 135.7 192.6 102.6 Q168.5 125.2 169.1 158.3Z"/><path d="M169.1 158.3 L177.9 137.4" stroke-width="1"/><path d="M177.6 164.4 Q209.2 154.5 223.0 124.4 Q191.4 134.4 177.6 164.4Z"/><path d="M177.6 164.4 L194.6 149.4" stroke-width="1"/><path d="M182.6 173.6 Q215.4 178.4 240.9 157.2 Q208.1 152.5 182.6 173.6Z"/><path d="M182.6 173.6 L204.5 167.5" stroke-width="1"/><circle cx="160" cy="180" r="23.5"/><circle cx="160" cy="180" r="13.4"/><circle cx="177.6" cy="180.0" r="1.6" fill="#D4AF6A"/><circle cx="174.3" cy="190.4" r="1.6" fill="#D4AF6A"/><circle cx="165.5" cy="196.8" r="1.6" fill="#D4AF6A"/><circle cx="154.5" cy="196.8" r="1.6" fill="#D4AF6A"/><circle cx="145.7" cy="190.4" r="1.6" fill="#D4AF6A"/><circle cx="142.4" cy="180.0" r="1.6" fill="#D4AF6A"/><circle cx="145.7" cy="169.6" r="1.6" fill="#D4AF6A"/><circle cx="154.5" cy="163.2" r="1.6" fill="#D4AF6A"/><circle cx="165.5" cy="163.2" r="1.6" fill="#D4AF6A"/><circle cx="174.3" cy="169.6" r="1.6" fill="#D4AF6A"/></svg>
